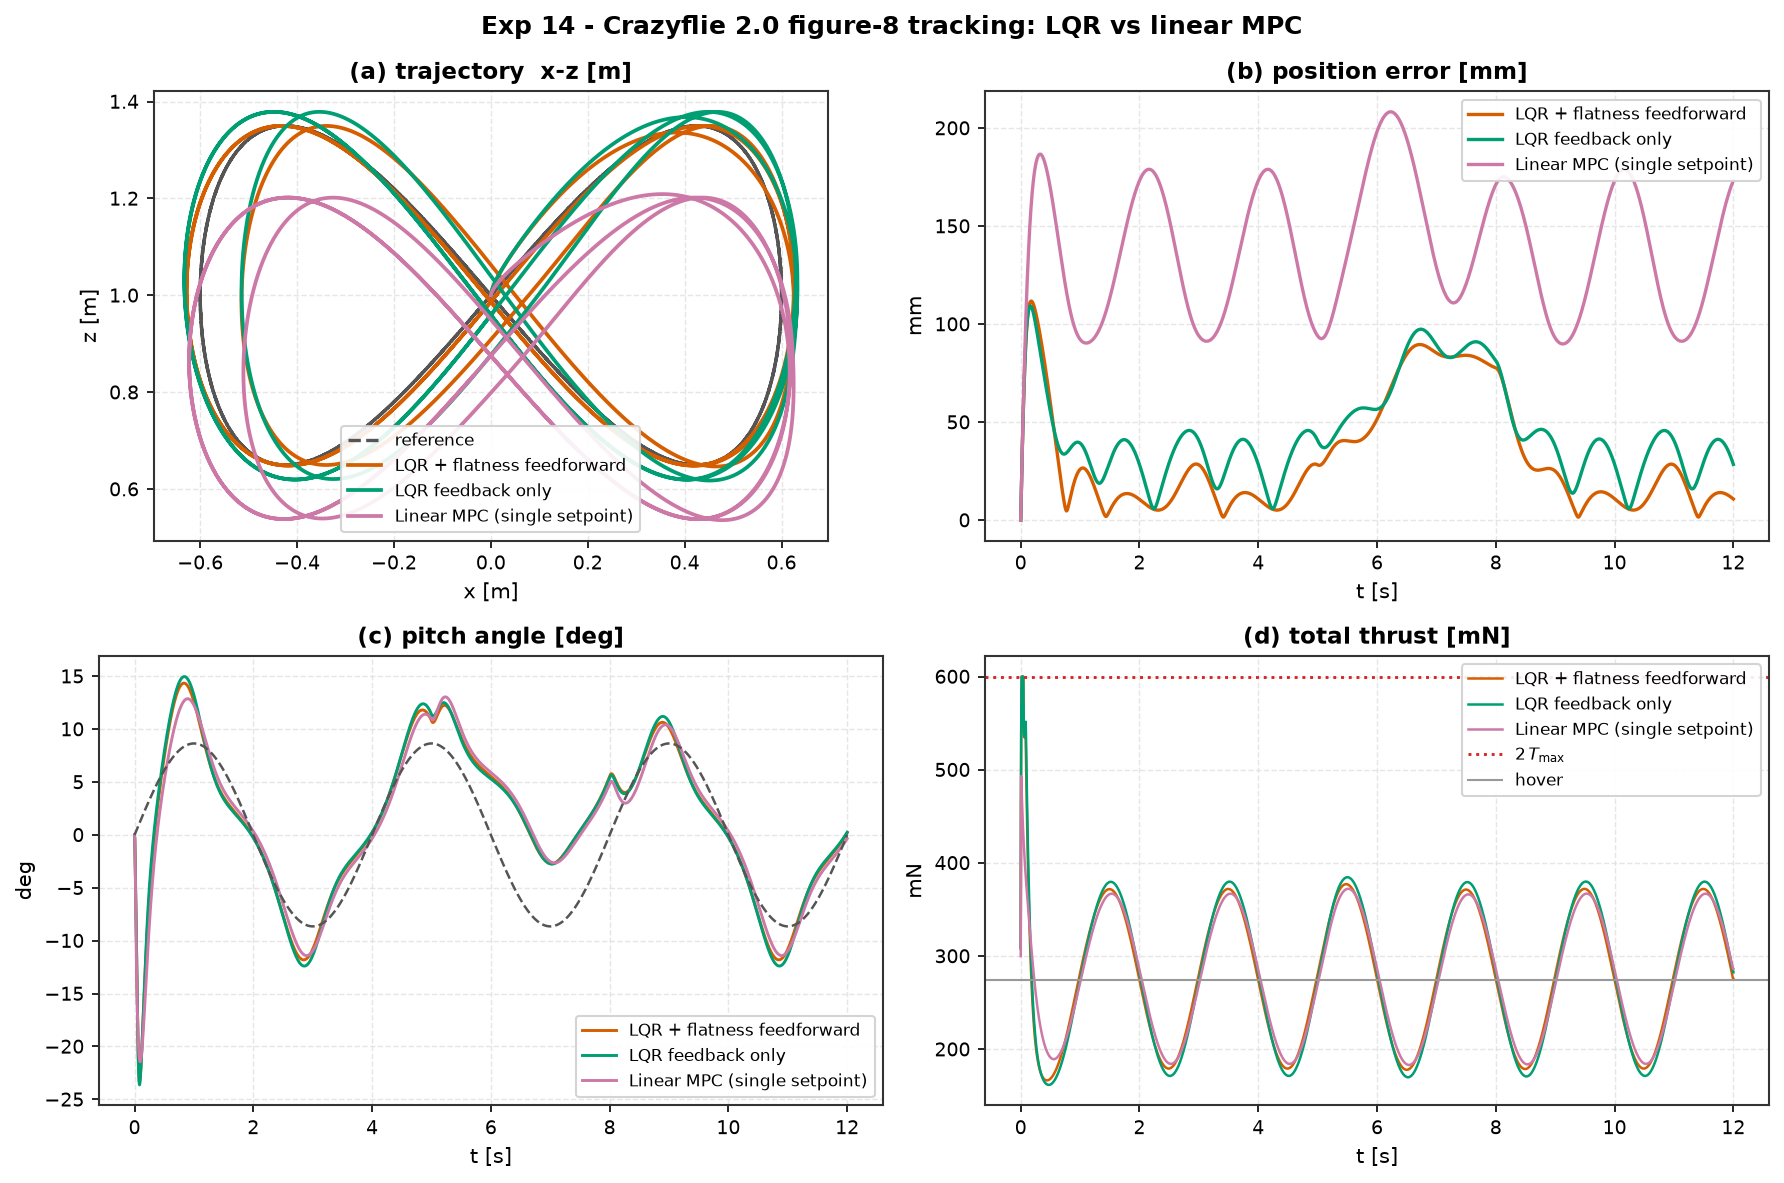
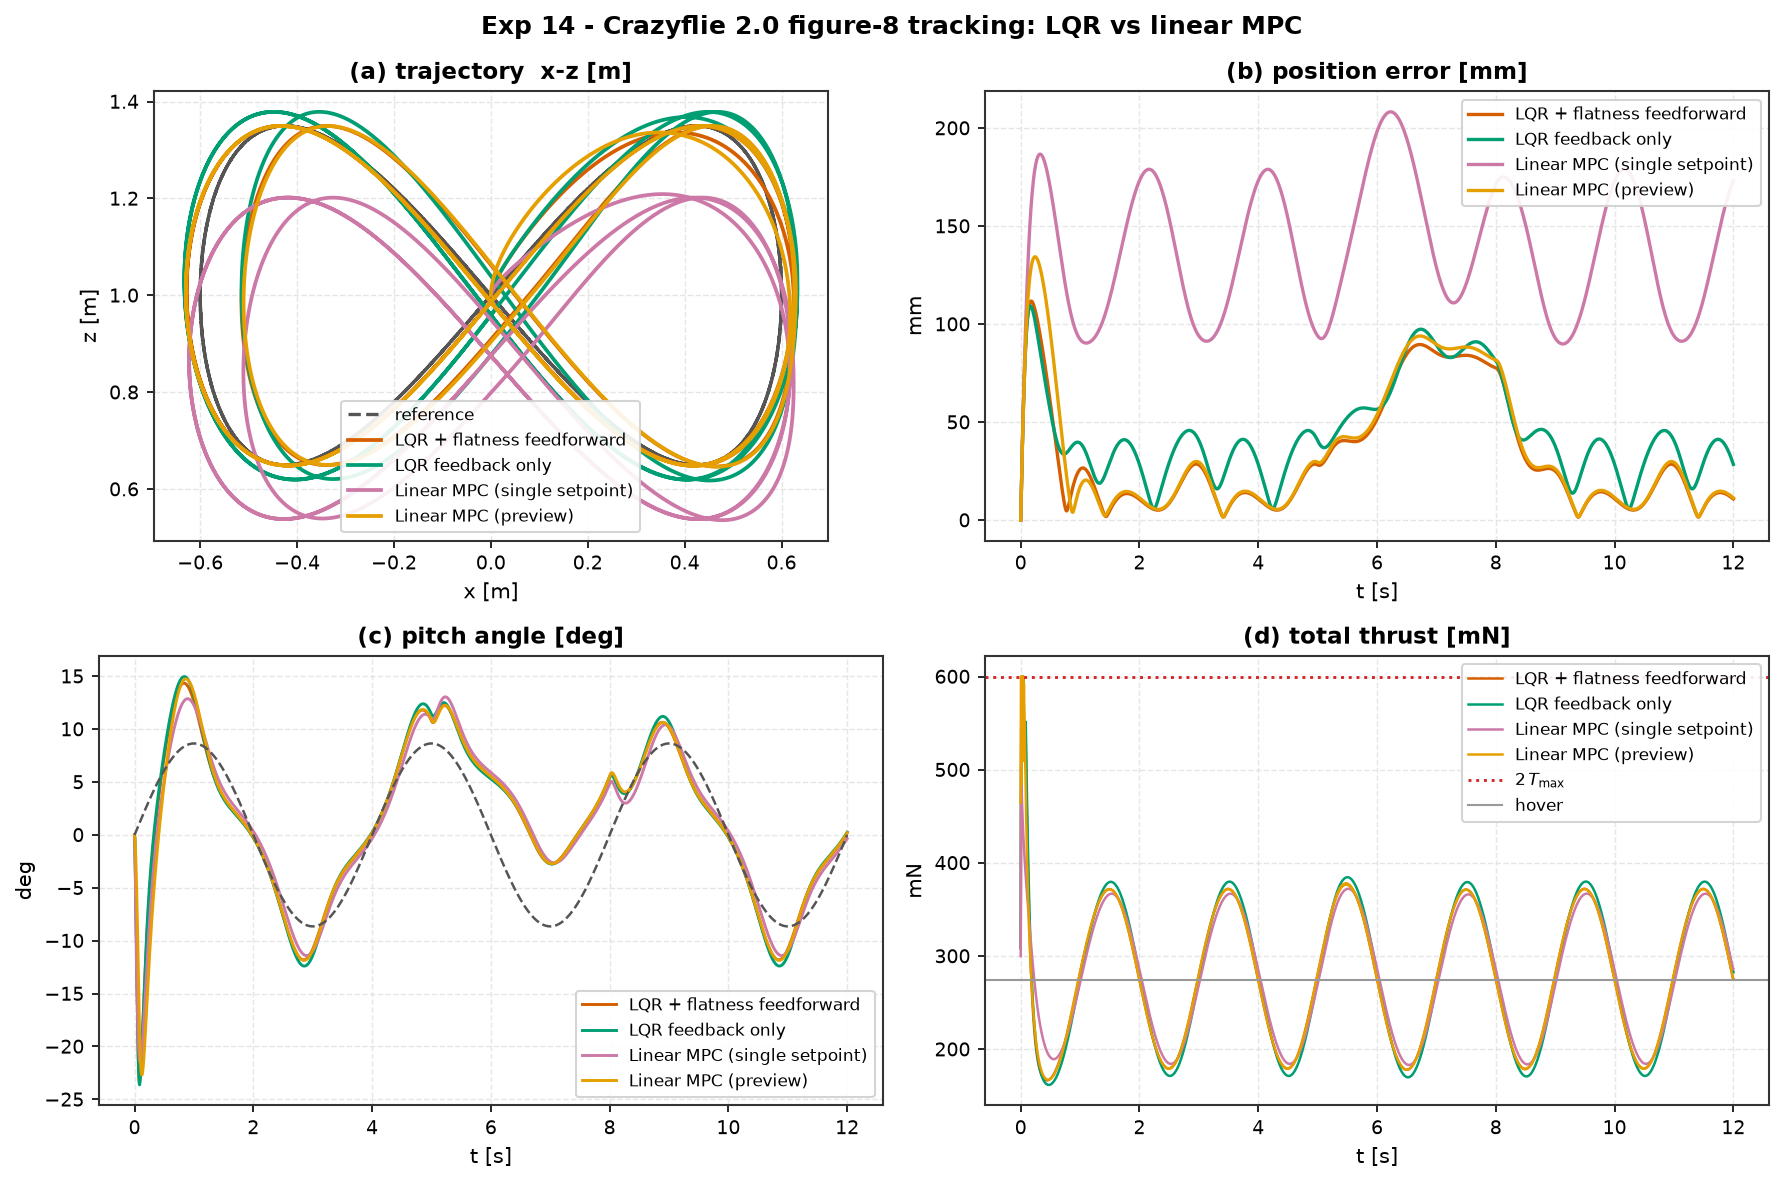
experiment 14: add a reference-preview MPC - closes the figure-8 tracking gap
New "Linear MPC (preview)" controller: same LinearMPC, but x_ref / u_ref are the
whole reference trajectory sampled over the horizon (N=40) instead of one tiled
setpoint, re-solved every 4th step (250 Hz), unconstrained, in hover-deviation
coordinates (the MPC model is the hover linearisation, which omits the gravity
offset - an absolute feed-forward drifts).

RMS position error 142 mm (single setpoint) -> 47.9 mm (preview), essentially
matching LQR + flatness feed-forward (43.5 mm); the residual ~4 mm is the finite
160 ms horizon. Table / figure / README / config updated.

diff --git a/experiments/14_quadrotor_figure8_tracking/run.py b/experiments/14_quadrotor_figure8_tracking/run.py
@@ -2,7 +2,8 @@
 
 A real nano-drone model. Controllers are designed on the hover linearisation and
 flown on the true nonlinear dynamics, tracking a lemniscate with analytic
-feed-forward. LQR vs a receding-horizon linear MPC.
+feed-forward: LQR (+/- flatness feed-forward), a single-setpoint linear MPC, and
+a reference-preview linear MPC that takes the whole trajectory over its horizon.
 
 Run:  python experiments/14_quadrotor_figure8_tracking/run.py
 Outputs (next to this file): table.md, table.csv, figure.png
@@ -34,6 +35,8 @@ Q = np.diag(1.0 / _X_MAX**2)
 R = np.diag(1.0 / _U_MAX**2)
 N_MPC = 25
 MPC_LOOKAHEAD = 12          # steps ahead to point the (single) MPC setpoint
+N_PREVIEW = 40              # preview MPC horizon (40 * 4 ms = 160 ms of trajectory)
+MPC_HZ_DIV = 4             # preview MPC re-solves every 4th step (1 kHz -> 250 Hz)
 
 class WindyQuad(PlanarQuadrotor):
     """PlanarQuadrotor plus an external lateral wind force during ``[t_on, t_off]``."""
@@ -79,26 +82,58 @@ def reference(t: float):
 
 class TrajectoryTracker:
     """Wrap an LQR / LinearMPC: refresh its x_ref (and, unless ``feedback_only``,
-    its u_ref feed-forward) from the trajectory each step. MPC's flat single
-    setpoint is pointed ``lookahead`` steps ahead."""
+    its u_ref feed-forward) from the trajectory each step.
 
-    def __init__(self, inner, name, lookahead_steps=0, feedback_only=False):
+    ``mode``:
+      "point"   - a single set-point, pointed ``lookahead`` steps ahead (LQR, and
+                  the naive MPC baseline);
+      "preview" - the whole reference trajectory over the MPC horizon: x_ref is an
+                  (N, 6) array at prediction steps 1..N, u_ref an (N, 2) flatness
+                  feed-forward at steps 0..N-1."""
+
+    def __init__(self, inner, name, lookahead_steps=0, feedback_only=False,
+                 mode="point", resolve_every=1):
         self.inner, self.name = inner, name
         self.lead = lookahead_steps * DT
         self.feedback_only = feedback_only
+        self.mode = mode
+        self.resolve_every = int(resolve_every)   # re-solve the QP every k steps
         self._t = 0.0
+        self._k = 0
+        self._held = None
 
     def reset(self):
         if hasattr(self.inner, "reset"):
             self.inner.reset()
         self._t = 0.0
+        self._k = 0
+        self._held = None
 
     def update(self, x, dt):
-        xr, ur = reference(self._t + self.lead)
-        self.inner.x_ref = xr
-        self.inner.u_ref = quad.u_hover if self.feedback_only else ur
-        u = np.asarray(self.inner.update(x, dt)).reshape(2)
+        if self.mode == "preview":
+            # the MPC's model is the hover linearisation, so it works in
+            # deviation coordinates: feed the feed-forward as (u_flat - u_hover)
+            # and add u_hover back to its output.
+            if self._k % self.resolve_every == 0 or self._held is None:
+                N = self.inner.N
+                self.inner.x_ref = np.array(
+                    [reference(self._t + (j + 1) * DT)[0] for j in range(N)])
+                self.inner.u_ref = np.array(
+                    [reference(self._t + j * DT)[1] - quad.u_hover for j in range(N)])
+                du = np.asarray(self.inner.update(x, dt)).reshape(2)
+                self._plan = self.inner.horizon_plan          # (N, 2) thrust deviations
+                self._held = quad.u_hover + du
+            else:
+                self._held = quad.u_hover + self._plan[
+                    min(self._k % self.resolve_every, len(self._plan) - 1)]
+            u = self._held
+        else:
+            xr, ur = reference(self._t + self.lead)
+            self.inner.x_ref = xr
+            self.inner.u_ref = quad.u_hover if self.feedback_only else ur
+            u = np.asarray(self.inner.update(x, dt)).reshape(2)
         self._t += dt
+        self._k += 1
         return np.clip(u, 0.0, T_MAX)
 
 
@@ -114,6 +149,12 @@ def build_controllers():
             TrajectoryTracker(LinearMPC(Aq, Bq, Q=Q, R=R, N=N_MPC,
                                         u_bounds=(0.0, T_MAX)),
                               "Linear MPC (single setpoint)", MPC_LOOKAHEAD),
+        # preview MPC runs unconstrained (flatness feed-forward keeps thrust near
+        # hover, far inside [0, T_max]); thrust is clipped post-hoc like the LQR.
+        "Linear MPC (preview)":
+            TrajectoryTracker(LinearMPC(Aq, Bq, Q=Q, R=R, N=N_PREVIEW),
+                              "Linear MPC (preview)", mode="preview",
+                              resolve_every=MPC_HZ_DIV),
     }
 
 

diff --git a/experiments/14_quadrotor_figure8_tracking/README.md b/experiments/14_quadrotor_figure8_tracking/README.md
@@ -25,7 +25,9 @@ thrust-to-weight). 6 states `[x, z, θ, ẋ, ż, θ̇]`, 2 rotor-group thrusts i
   `Q = diag(1/[0.1,0.1,0.2,0.5,0.5,3.0]²)`, `R = diag(1/[0.15,0.15]²)`.
 - `dt = 4 ms`, `T = 12 s` (three laps), RK4.
 - Controllers: **LQR + flatness feed-forward**, **LQR feedback-only**,
-  **Linear MPC** (single tiled setpoint, `N = 25`, input box).
+  **Linear MPC (single setpoint)** (one tiled target, `N = 25`, input box), and
+  **Linear MPC (preview)** — the whole reference trajectory over the horizon
+  (`N = 40`), re-solved at 250 Hz in hover-deviation coordinates.
 
 Run: `python experiments/14_quadrotor_figure8_tracking/run.py`
 Outputs (committed): `table.md`, `table.csv`, `figure.png`.
@@ -37,6 +39,7 @@ Outputs (committed): `table.md`, `table.csv`, `figure.png`.
 | LQR + flatness feed-forward | **43.5 mm** | 112 mm | 4.3° | 0.033 | 0.7 % |
 | LQR feedback only           | 51.0 mm | 109 mm | 4.4° | 0.038 | 0.7 % |
 | Linear MPC (single setpoint)| 142 mm | 208 mm | 4.3° | 0.026 | 0.1 % |
+| **Linear MPC (preview)**    | 47.9 mm | 134 mm | 4.5° | 0.033 | 0.6 % |
 
 ![figure](figure.png)
 
@@ -51,12 +54,16 @@ Outputs (committed): `table.md`, `table.csv`, `figure.png`.
    51 mm) and lowers the error *floor* between gusts (panel b): pre-computing the
    pitch/thrust the trajectory demands means feedback only has to correct model
    error and disturbances, not reconstruct the whole manoeuvre from lag.
-3. **A single-setpoint linear MPC is the wrong tool here.** It optimises toward
-   one tiled target point, so on a fast curved path it perpetually cuts the
-   corner (~14 cm, panel a shows the shrunken loop). Its real strength — hard
-   constraint satisfaction — was demonstrated in Experiment 08; smooth tracking
-   needs a **reference-preview MPC** that takes the whole horizon of the
-   trajectory (a Phase-2 extension of `LinearMPC`).
+3. **Give the MPC the trajectory, not a point, and the gap closes.** A
+   single-setpoint linear MPC optimises toward one tiled target, so on a fast
+   curved path it perpetually cuts the corner (142 mm, panel a shows the
+   shrunken loop). The **reference-preview MPC** — same `LinearMPC`, but `x_ref`
+   / `u_ref` are now the whole reference *trajectory* sampled over the horizon —
+   tracks to **47.9 mm**, essentially matching the flatness LQR (43.5 mm). It
+   needs the flatness feed-forward supplied in **hover-deviation** coordinates
+   (the MPC's model is the hover linearisation, which omits the gravity offset);
+   with an absolute feed-forward it drifts. The remaining ~4 mm over the LQR is
+   the price of a finite 160 ms horizon.
 4. **Cost scaling is not optional on a real system.** The quadrotor's `B` spans
    two orders of magnitude between its channels; the Bryson rule
    (`Q_ii = 1/x_i,max²`, `R_jj = 1/u_j,max²`) turns a limit-cycling gain into a
@@ -66,4 +73,4 @@ Outputs (committed): `table.md`, `table.csv`, `figure.png`.
 
 - Experiment 15 (toku): output-feedback tracking with an **EKF** fusing noisy
   `[x, z, θ]` + gyro (no velocity measurement).
-- Reference-preview `LinearMPC`; nonlinear MPC via `SamplingMPC` on the quad.
+- Nonlinear MPC via `SamplingMPC` on the quad.

diff --git a/experiments/14_quadrotor_figure8_tracking/table.md b/experiments/14_quadrotor_figure8_tracking/table.md
@@ -5,3 +5,4 @@
 | LQR + flatness feedforward | 43.5 | 112 | 4.29 | 0.0329 | 0.6 | 0.7 |
 | LQR feedback only | 51 | 109 | 4.35 | 0.0379 | 0.6 | 0.733 |
 | Linear MPC (single setpoint) | 142 | 208 | 4.3 | 0.0264 | 0.493 | 0.1 |
+| Linear MPC (preview) | 47.9 | 134 | 4.52 | 0.0326 | 0.6 | 0.566 |
